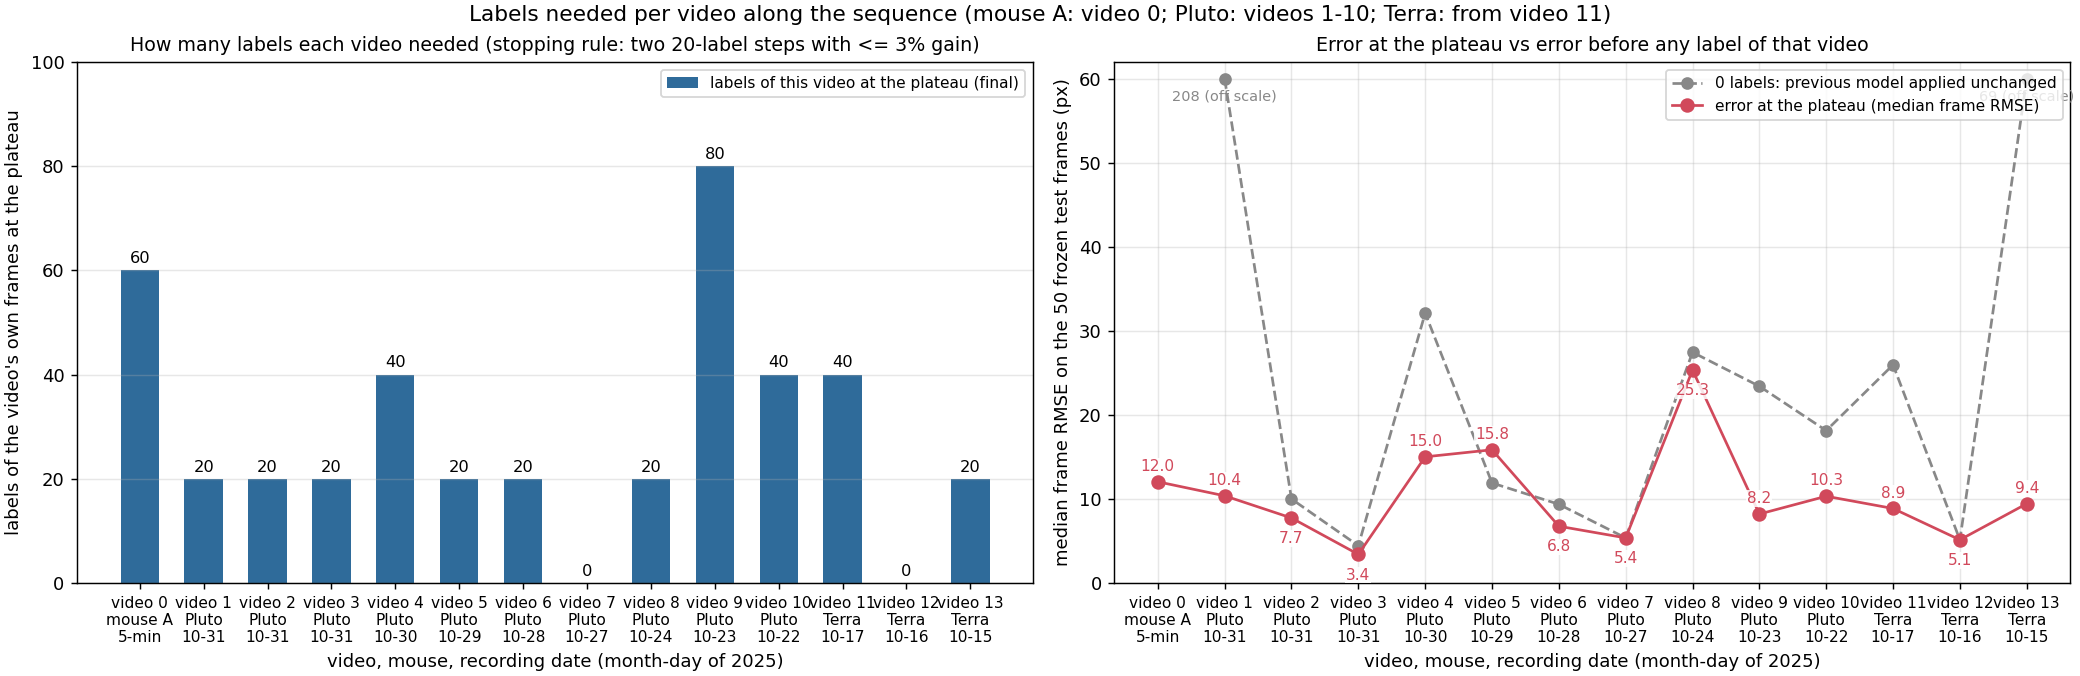
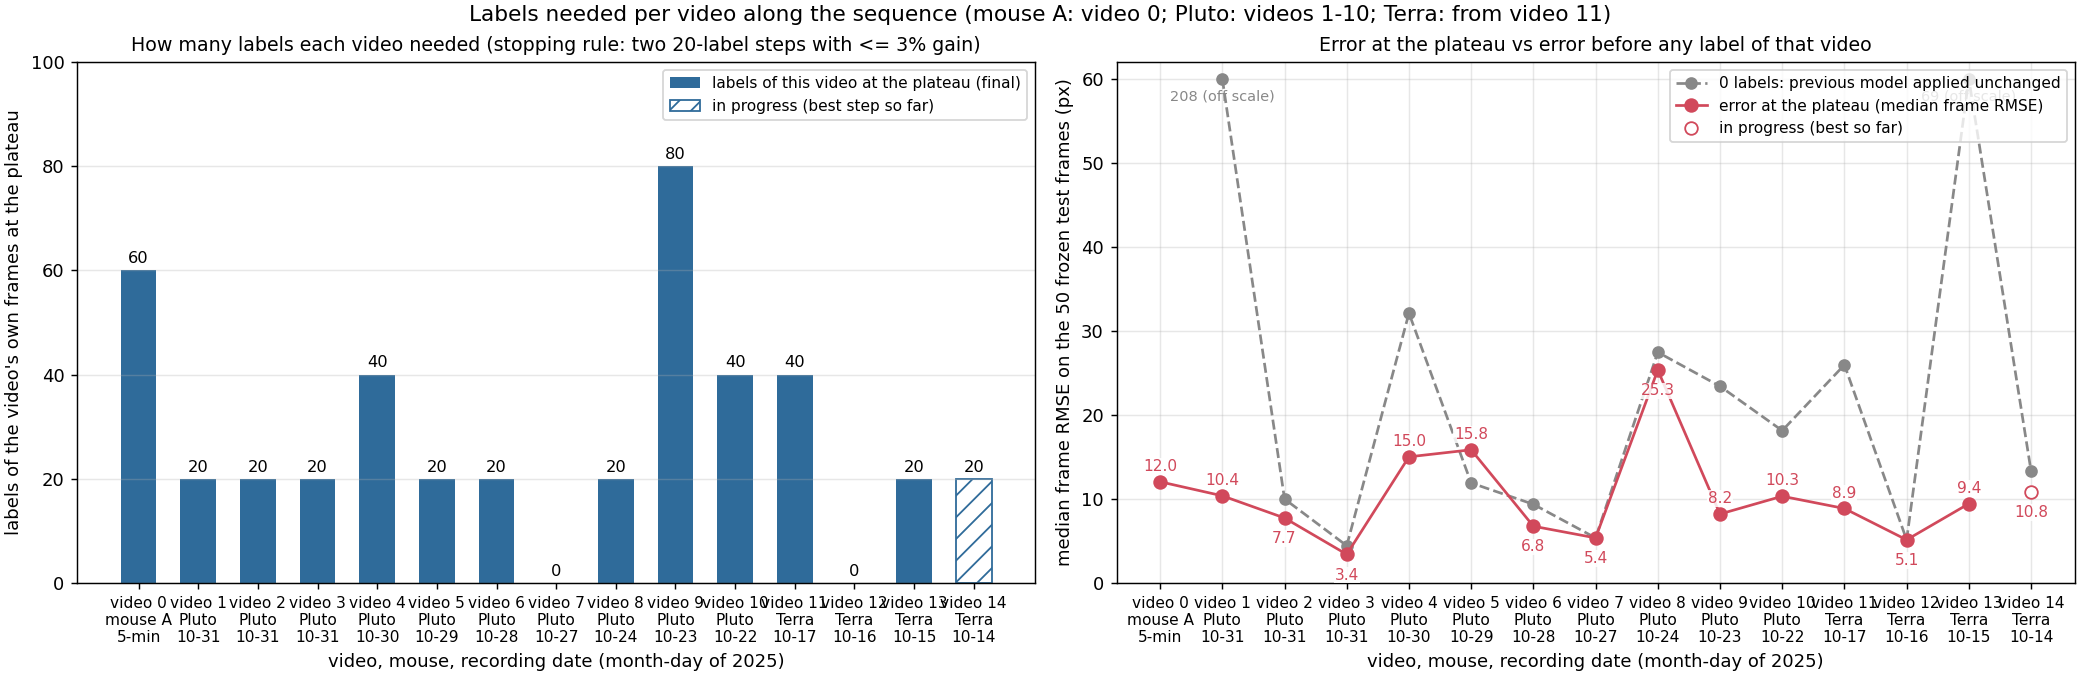
Video 14 step 1 (20 labels, shuffle 1511): 10.83 px, 19% better than the 0-label 13.33 px
Claude-Session: https://claude.ai/code/session_01FTvbKQF7C9X9WWpwtvXgZ4

diff --git a/report/index.html b/report/index.html
@@ -78,7 +78,7 @@ math[display="block"]{margin:10px 0 6px;text-align:left;overflow-x:auto;max-widt
 
 <header>
   <h1><span lang="zh">小鼠眼睛关键点追踪：做了什么，结果是什么</span><span lang="en">Mouse eye keypoint tracking: what was done and what came out</span></h1>
-  <p class="muted small">Zhiheng Li (University of Minnesota), Kaiwen Sheng (Stanford) · <span lang="zh">页面生成时间</span><span lang="en">page built</span> 2026-10-06 14:54 · <a href="https://github.com/ZhihengLi0/mouse-behavior-tracking">GitHub: ZhihengLi0/mouse-behavior-tracking</a></p>
+  <p class="muted small">Zhiheng Li (University of Minnesota), Kaiwen Sheng (Stanford) · <span lang="zh">页面生成时间</span><span lang="en">page built</span> 2026-10-06 15:58 · <a href="https://github.com/ZhihengLi0/mouse-behavior-tracking">GitHub: ZhihengLi0/mouse-behavior-tracking</a></p>
 
   <div class="text" lang="zh">
     <p><b>任务：</b>用 DeepLabCut 在小鼠眼睛视频的每一帧上找 8 个点：瞳孔上、下、左、右，上眼睑、下眼睑，鼻侧眼角、颞侧眼角。由这 8 个点得到瞳孔大小、眼睛睁开程度和眨眼，之后与脑记录对齐。</p>
@@ -105,7 +105,7 @@ math[display="block"]{margin:10px 0 6px;text-align:left;overflow-x:auto;max-widt
       <li><b>瞳孔面积怎么算？</b>按 2026 年 9 月 20 日明确的定义，瞳孔四个点都是椭圆端点，在 14 个视频的 694 帧测试帧上，四点法的面积误差中位数是 5.6%，三点法是 7.8%；视频 4 和 8 上面积仍然不准（第 9 步）。</li>
       <li><b>眨眼怎么判断？</b>第一轮先定了定义：非睁眼 = 眼睛闭上或眼睑盖住部分瞳孔。按帧的规则"睁开高度 ÷ 眼宽 &lt; 0.347"（眼睑点失效时看瞳孔置信度）在 239 帧单帧盲评上准确率 91%。主要发现：7 个视频（3、4、8–12）有 26–70% 的时间眼睛不是完全睁开的，半掩是那些录像的常态；眨眼是其中的子集，细分放下一轮（第 10 步）。</li>
     </ol>
-    <p><b>进度：</b>已完成 14 个视频（视频 0–13）。</p>
+    <p><b>进度：</b>已完成 14 个视频（视频 0–13）；视频 14 进行中，按 0 / 20 / 40 / … 帧的误差为 13.33 / 10.83 px。</p>
   </div>
   <div class="text" lang="en">
     <p><b>Task:</b> DeepLabCut finds 8 points on every frame of a mouse-eye video: pupil top, bottom, left, right; upper and lower eyelid; nasal and temporal eye corner. From these we get pupil size, eye opening and blinks, to be aligned with brain recordings later.</p>
@@ -132,7 +132,7 @@ math[display="block"]{margin:10px 0 6px;text-align:left;overflow-x:auto;max-widt
       <li><b>How to compute the pupil area?</b> Under the definitions made explicit on 2026-09-20 all four pupil points are ellipse endpoints, and on the 694 test frames of 14 videos the four-point area has a median error of 5.6% against 7.8% for the three-point rule; on videos 4 and 8 the area is still not accurate (step 9).</li>
       <li><b>How to detect blinks?</b> The first round fixed a definition first: not open = the eye is closed or the lid covers part of the pupil. The per-frame rule "eye opening ÷ eye width &lt; 0.347" (pupil confidence when the eyelid points fail) is 91% accurate on 239 blind single frames. Main finding: in 7 videos (3, 4, 8–12) the eye is not fully open 26–70% of the time — a half-covered eye is the resting state of those recordings; blinks are a subset, and the finer classes come next (step 10).</li>
     </ol>
-    <p><b>Status:</b> 14 videos finished (videos 0–13).</p>
+    <p><b>Status:</b> 14 videos finished (videos 0–13); video 14 in progress, error at 0 / 20 / 40 / … labels: 13.33 / 10.83 px.</p>
   </div>
 
   <div class="text" lang="zh">
@@ -585,6 +585,7 @@ math[display="block"]{margin:10px 0 6px;text-align:left;overflow-x:auto;max-widt
       <div class="item"><img src="assets/scale_video11.jpg" alt="Video 11: error vs own labels" loading="lazy"><div class="cap"><span lang="zh">视频 11（Terra，2025-10-17）：平台点 40 帧，8.86 px</span><span lang="en">Video 11 (Terra, 2025-10-17): plateau at 40 labels, 8.86 px</span></div></div>
       <div class="item"><img src="assets/scale_video12.jpg" alt="Video 12: error vs own labels" loading="lazy"><div class="cap"><span lang="zh">视频 12（Terra，2025-10-16）：平台点 0 帧，5.13 px</span><span lang="en">Video 12 (Terra, 2025-10-16): plateau at 0 labels, 5.13 px</span></div></div>
       <div class="item"><img src="assets/scale_video13.jpg" alt="Video 13: error vs own labels" loading="lazy"><div class="cap"><span lang="zh">视频 13（Terra，2025-10-15）：平台点 20 帧，9.43 px</span><span lang="en">Video 13 (Terra, 2025-10-15): plateau at 20 labels, 9.43 px</span></div></div>
+      <div class="item"><img src="assets/scale_video14.jpg" alt="Video 14: error vs own labels" loading="lazy"><div class="cap"><span lang="zh">视频 14（Terra，2025-10-14）：进行中</span><span lang="en">Video 14 (Terra, 2025-10-14): in progress</span></div></div>
     </div></div>
     <figcaption lang="zh"><span class="tag">图 5-3 怎么看：</span>每个视频自己的曲线排成一行，从视频 0 到最新的视频，可以左右拖动；每张图下面注明视频、老鼠、日期和平台点。三幅小图的读法以视频 9 为例。左图：横轴是这个视频自己的标注帧数，纵轴是误差；20 帧 10.4 px，40 帧 8.6 px，80 帧 8.2 px，之后两步（9.4、8.6 px）都没有再改善，规则在 120 帧触发，平台点记为 80 帧。中图：8 个点各自的误差，瞳孔下点（蓝）最难。右图：不需要标注的指标，紫线是整段视频里被跳动规则标出的帧的比例，随标注增加从 18% 降到 9%。</figcaption>
     <figcaption lang="en"><span class="tag">Figure 5-3, how to read:</span>The curves of every video in one row, from video 0 to the newest; scroll sideways. Under each figure: video, mouse, date and plateau point. How to read the three panels, with video 9 as the example. Left: x = this video's own labels, y = error; 10.4 px at 20 labels, 8.6 px at 40, 8.2 px at 80, then two steps without a gain (9.4, 8.6 px), so the rule fired at 120 and the plateau point is 80. Middle: error of each of the 8 points; pupil bottom (blue) is the hardest. Right: label-free signals; the purple line is the share of video frames flagged by the jump rule, falling from 18% to 9% as labels are added.</figcaption>
@@ -622,6 +623,7 @@ math[display="block"]{margin:10px 0 6px;text-align:left;overflow-x:auto;max-widt
 <tr><td>11</td><td>Terra<br>2025-10-17</td><td>540</td><td>25.96 / 9.24 / 8.86 / 8.77 / 8.65</td><td><span lang="zh"><b>40 帧，8.86 px</b></span><span lang="en"><b>40 labels, 8.86 px</b></span></td><td>80</td><td>40</td></tr>
 <tr><td>12</td><td>Terra<br>2025-10-16</td><td>580</td><td>5.13 / 5.77 / 5.84</td><td><span lang="zh"><b>0 帧，5.13 px</b></span><span lang="en"><b>0 labels, 5.13 px</b></span></td><td>40</td><td>0</td></tr>
 <tr><td>13</td><td>Terra<br>2025-10-15</td><td>580</td><td>69.13 / 9.43 / 9.44 / 9.67</td><td><span lang="zh"><b>20 帧，9.43 px</b></span><span lang="en"><b>20 labels, 9.43 px</b></span></td><td>60</td><td>20</td></tr>
+<tr><td>14</td><td>Terra<br>2025-10-14</td><td>600</td><td>13.33 / 10.83</td><td><span lang="zh">进行中（目前最好：20 帧，10.83 px）</span><span lang="en">in progress (best so far: 20 labels, 10.83 px)</span></td><td>20</td><td>–</td></tr>
       </tbody>
     </table>
   </div>

diff --git a/report/index_en.html b/report/index_en.html
@@ -75,7 +75,7 @@ math[display="block"]{margin:10px 0 6px;text-align:left;overflow-x:auto;max-widt
 
 <header>
   <h1><span lang="en">Mouse eye keypoint tracking: what was done and what came out</span></h1>
-  <p class="muted small">Zhiheng Li (University of Minnesota), Kaiwen Sheng (Stanford) · <span lang="en">page built</span> 2026-10-06 14:54 · <a href="https://github.com/ZhihengLi0/mouse-behavior-tracking">GitHub: ZhihengLi0/mouse-behavior-tracking</a></p>
+  <p class="muted small">Zhiheng Li (University of Minnesota), Kaiwen Sheng (Stanford) · <span lang="en">page built</span> 2026-10-06 15:58 · <a href="https://github.com/ZhihengLi0/mouse-behavior-tracking">GitHub: ZhihengLi0/mouse-behavior-tracking</a></p>
 
   
   <div class="text" lang="en">
@@ -103,7 +103,7 @@ math[display="block"]{margin:10px 0 6px;text-align:left;overflow-x:auto;max-widt
       <li><b>How to compute the pupil area?</b> Under the definitions made explicit on 2026-09-20 all four pupil points are ellipse endpoints, and on the 694 test frames of 14 videos the four-point area has a median error of 5.6% against 7.8% for the three-point rule; on videos 4 and 8 the area is still not accurate (step 9).</li>
       <li><b>How to detect blinks?</b> The first round fixed a definition first: not open = the eye is closed or the lid covers part of the pupil. The per-frame rule "eye opening ÷ eye width &lt; 0.347" (pupil confidence when the eyelid points fail) is 91% accurate on 239 blind single frames. Main finding: in 7 videos (3, 4, 8–12) the eye is not fully open 26–70% of the time — a half-covered eye is the resting state of those recordings; blinks are a subset, and the finer classes come next (step 10).</li>
     </ol>
-    <p><b>Status:</b> 14 videos finished (videos 0–13).</p>
+    <p><b>Status:</b> 14 videos finished (videos 0–13); video 14 in progress, error at 0 / 20 / 40 / … labels: 13.33 / 10.83 px.</p>
   </div>
 
   
@@ -463,6 +463,7 @@ math[display="block"]{margin:10px 0 6px;text-align:left;overflow-x:auto;max-widt
       <div class="item"><img src="assets/scale_video11.jpg" alt="Video 11: error vs own labels" loading="lazy"><div class="cap"><span lang="en">Video 11 (Terra, 2025-10-17): plateau at 40 labels, 8.86 px</span></div></div>
       <div class="item"><img src="assets/scale_video12.jpg" alt="Video 12: error vs own labels" loading="lazy"><div class="cap"><span lang="en">Video 12 (Terra, 2025-10-16): plateau at 0 labels, 5.13 px</span></div></div>
       <div class="item"><img src="assets/scale_video13.jpg" alt="Video 13: error vs own labels" loading="lazy"><div class="cap"><span lang="en">Video 13 (Terra, 2025-10-15): plateau at 20 labels, 9.43 px</span></div></div>
+      <div class="item"><img src="assets/scale_video14.jpg" alt="Video 14: error vs own labels" loading="lazy"><div class="cap"><span lang="en">Video 14 (Terra, 2025-10-14): in progress</span></div></div>
     </div></div>
     
     <figcaption lang="en"><span class="tag">Figure 5-3, how to read:</span>The curves of every video in one row, from video 0 to the newest; scroll sideways. Under each figure: video, mouse, date and plateau point. How to read the three panels, with video 9 as the example. Left: x = this video's own labels, y = error; 10.4 px at 20 labels, 8.6 px at 40, 8.2 px at 80, then two steps without a gain (9.4, 8.6 px), so the rule fired at 120 and the plateau point is 80. Middle: error of each of the 8 points; pupil bottom (blue) is the hardest. Right: label-free signals; the purple line is the share of video frames flagged by the jump rule, falling from 18% to 9% as labels are added.</figcaption>
@@ -500,6 +501,7 @@ math[display="block"]{margin:10px 0 6px;text-align:left;overflow-x:auto;max-widt
 <tr><td>11</td><td>Terra<br>2025-10-17</td><td>540</td><td>25.96 / 9.24 / 8.86 / 8.77 / 8.65</td><td><span lang="en"><b>40 labels, 8.86 px</b></span></td><td>80</td><td>40</td></tr>
 <tr><td>12</td><td>Terra<br>2025-10-16</td><td>580</td><td>5.13 / 5.77 / 5.84</td><td><span lang="en"><b>0 labels, 5.13 px</b></span></td><td>40</td><td>0</td></tr>
 <tr><td>13</td><td>Terra<br>2025-10-15</td><td>580</td><td>69.13 / 9.43 / 9.44 / 9.67</td><td><span lang="en"><b>20 labels, 9.43 px</b></span></td><td>60</td><td>20</td></tr>
+<tr><td>14</td><td>Terra<br>2025-10-14</td><td>600</td><td>13.33 / 10.83</td><td><span lang="en">in progress (best so far: 20 labels, 10.83 px)</span></td><td>20</td><td>–</td></tr>
       </tbody>
     </table>
   </div>

diff --git a/README.md b/README.md
@@ -27,7 +27,7 @@ per-frame predictions stay local; git carries code, documentation and audited ag
 | Finished | **video 11** (Terra = mouse C, 2025-10-17, the first video of a new mouse): test50 / val20 / batch01 pre-labeled with the video-10 40-label model (1112) and corrected by the labeler (test50: 249 of 400 points moved), test set frozen; 0 labels (model 1112) = 25.96 px (p90 80.1, 16% of frames > 50 px), 20 labels = 9.24 px (p90 166.4, 20% of frames > 50 px), 40 labels = 8.86 px (p90 17.5, 4% of frames > 50 px, 94% of keypoints with confidence >= 0.6; 4.1% better on the median), 60 labels = 8.77 px (p90 12.9, 2% of frames > 50 px, 97% confidence; 1.0% better than 8.86, a flat step), 80 labels = 8.65 px (p90 13.1, 2% > 50 px, 98% confidence; 1.4% better, a second flat step): the plateau rule fired at 80, finished at **40 labels, 8.86 px** (user decision 2026-10-04). Training set of every step = 540 carried labels of videos 0-10 + this video's labels; shuffles 1211, 1212, ... |
 | Finished | **video 12** (Terra, 2025-10-16, second video of mouse C): test50 / val20 / batch01 pre-labeled with the video-11 40-label model (1212) and corrected by the labeler (test50: 110 of 400 points moved), test set frozen; 0 labels (model 1212) = 5.13 px, 20 labels = 5.77 px, 40 labels = 5.84 px (0% of frames > 50 px at every step): no step improves the 0-label number, the plateau rule fired at 40, finished with the plateau at **0 labels, 5.13 px** (user decision 2026-10-04 21:29); no labels carried |
 | Finished | **video 13** (Terra, 2025-10-15, third video of mouse C): test50 / val20 / batch01 pre-labeled with the video-11 40-label model (1212) and corrected by the labeler (test50: 287 of 400 points moved), test set frozen; 0 labels (model 1212) = 69.13 px (56% of frames > 50 px: the model that fitted video 12 does not fit this day), 20 labels = 9.43 px, 40 labels = 9.44 px, 60 labels = 9.67 px (0% of frames > 50 px from 20 labels on): no step improves on 20 labels, the plateau rule fired at 60; **plateau at 20 labels, 9.43 px** (user decision 2026-10-06), tag `v0.9.15-video13-plateau`; batch01 (20 labels) carried, 600 labels go into video 14. Fewer-labels: 5 labels 10.46 / 16.03 px, 10 labels 11.24 / 10.29 px (first-batch size only, no jump selection afterwards; both above the 20-label 9.43 px). |
-| In progress | **video 14** (Terra, 2025-10-14): test50 / val20 / batch01 extracted and pre-labeled with the video-13 20-label model (1411); corrected by the labeler (test50: 149 of 400 points moved), test set frozen; 0 labels (model 1411) = 13.33 px (p90 170.8, 16% of frames > 50 px); val20 and batch01 labeled, step 1 (shuffle 1511) training (2026-10-06 14:05). Training set of every step = 600 carried labels of videos 0-13 + this video's labels; shuffles 1511, 1512, ... |
+| In progress | **video 14** (Terra, 2025-10-14): test50 / val20 / batch01 extracted and pre-labeled with the video-13 20-label model (1411); corrected by the labeler (test50: 149 of 400 points moved), test set frozen; 0 labels (model 1411) = 13.33 px (p90 170.8, 16% of frames > 50 px); 20 labels (shuffle 1511) = 10.83 px (p90 28.7, 2% of frames > 50 px, 88% of keypoints with confidence >= 0.6; 19% better than the 0-label number); batch 2 being selected (2026-10-06 15:58). Training set of every step = 600 carried labels of videos 0-13 + this video's labels; shuffles 1511, 1512, ... |
 | Analysis (2026-10-04) | blink and pupil area on all 12 finished videos (`v2_new_pupil_top_video_scaling/results/blink_and_area/`): four-point area median error 6.6% (three-point 8.3%); closed eye best detected by the mean confidence of the four pupil points (27 of 28 closed frames, 4.1% of open frames flagged; the earlier rule flags 55.7%); area traces still contain tracking jumps not covered by the closure rule. Error and confidence per keypoint (`.../results/keypoint_confidence_error/`): pupil top is the least accurate point (10.9 px median) |
 | Next | Terra units 15-18, one recording day each, newest first |
 
@@ -51,7 +51,7 @@ Labels needed per video (plateau = two consecutive 20-label steps that improve t
 | 11 | Terra (mouse C), 2025-10-17 | 540 | 25.96 / 9.24 / 8.86 / 8.77 / 8.65 px (v2) | 40 labels, 8.9 px (rule fired at 80) |
 | 12 | Terra (mouse C), 2025-10-16 | 580 | 5.13 / 5.77 / 5.84 px (v2) | 0 labels, 5.1 px (rule fired at 40) |
 | 13 | Terra (mouse C), 2025-10-15 | 580 | 69.13 / 9.43 / 9.44 / 9.67 px (v2) | 20 labels, 9.4 px (rule fired at 60) |
-| 14 | Terra (mouse C), 2025-10-14 | 600 | 13.33 px (v2, in progress) | – |
+| 14 | Terra (mouse C), 2025-10-14 | 600 | 13.33 / 10.83 px (v2, in progress) | – |
 
 What the numbers say:
 

diff --git a/v2_new_pupil_top_video_scaling/results/README.md b/v2_new_pupil_top_video_scaling/results/README.md
@@ -26,7 +26,7 @@ snapshot with the best validation mAP after the first learning-rate drop (epochs
 | 11 `11_20251017_Terra_spont_1` | mouse C (Terra), 19.9 min, 2025-10-17 | 540 (videos 0-3 + 40 of video 4 + 20 each of videos 5, 6, 8 + 80 of video 9 + 40 of video 10) | convention v2: 25.96 / 9.24 / 8.86 / 8.77 / 8.65 | **40 labels** (rule fired at 80; user decision 2026-10-04) | 8.86 px |
 | 12 `12_20251016_Terra_spont_2` | mouse C (Terra), 19.9 min, 2025-10-16 | 580 (as for video 11 + 40 of video 11) | convention v2: 5.13 (0 labels; biased low by the pre-labels; see the video's README) / 5.77 / 5.84 | **0 labels** (rule fired at 40; the video-11 model already fits) | 5.13 px |
 | 13 `13_20251015_Terra_spont_1` | mouse C (Terra), 19.9 min, 2025-10-15 | 580 (video 12 carries none) | convention v2: 69.13 / 9.43 / 9.44 / 9.67 | **20 labels** (rule fired at 60) | 9.43 px |
-| 14 `14_20251014_Terra_spont_1` | mouse C (Terra), 2025-10-14 | 600 (580 + 20 of video 13) | convention v2: 13.33 (0 labels) | in progress | – |
+| 14 `14_20251014_Terra_spont_1` | mouse C (Terra), 2025-10-14 | 600 (580 + 20 of video 13) | convention v2: 13.33 / 10.83 | in progress | – |
 
 `labels_to_plateau.png` / `labels_to_plateau.csv` (2026-09-30): the plateau point of every video in the sequence as one figure - labels needed (left) and the error at the plateau vs the 0-label error (right); `scripts/plot_labels_to_plateau.py`. The csv is the table above in machine-readable form and is updated when a video finishes.
 

diff --git a/v2_new_pupil_top_video_scaling/14_20251014_Terra_spont_1/results/README.md b/v2_new_pupil_top_video_scaling/14_20251014_Terra_spont_1/results/README.md
@@ -11,6 +11,9 @@ contributed none; 600 in total) + this video's labels; shuffles 1511, 1512, ...
 | labels of this video | median | p90 | frames > 50 px | keypoints conf >= 0.6 | pool frames flagged by the jump rule |
 |---|---|---|---|---|---|
 | 0 (video-13 20-label model 1411, applied unchanged) | 13.33 px | 170.8 | 16% | 71% | – |
+| 20 (shuffle 1511) | 10.83 px | 28.7 | 2% | 88% | pending |
 
 The other Terra models give 11.3-35.4 px on this test set (video-13 40- and 60-label models 11.28 / 11.59 px, video-12
 models 24.5-26.9 px, video-11 models 26.6-35.4 px; `../results/cross_video_matrix.csv`).
+
+Step 1 (20 labels): 10.83 px, 19% better than the 0-label 13.33 px (2026-10-06 15:57); frames > 50 px from 16% to 2%.
